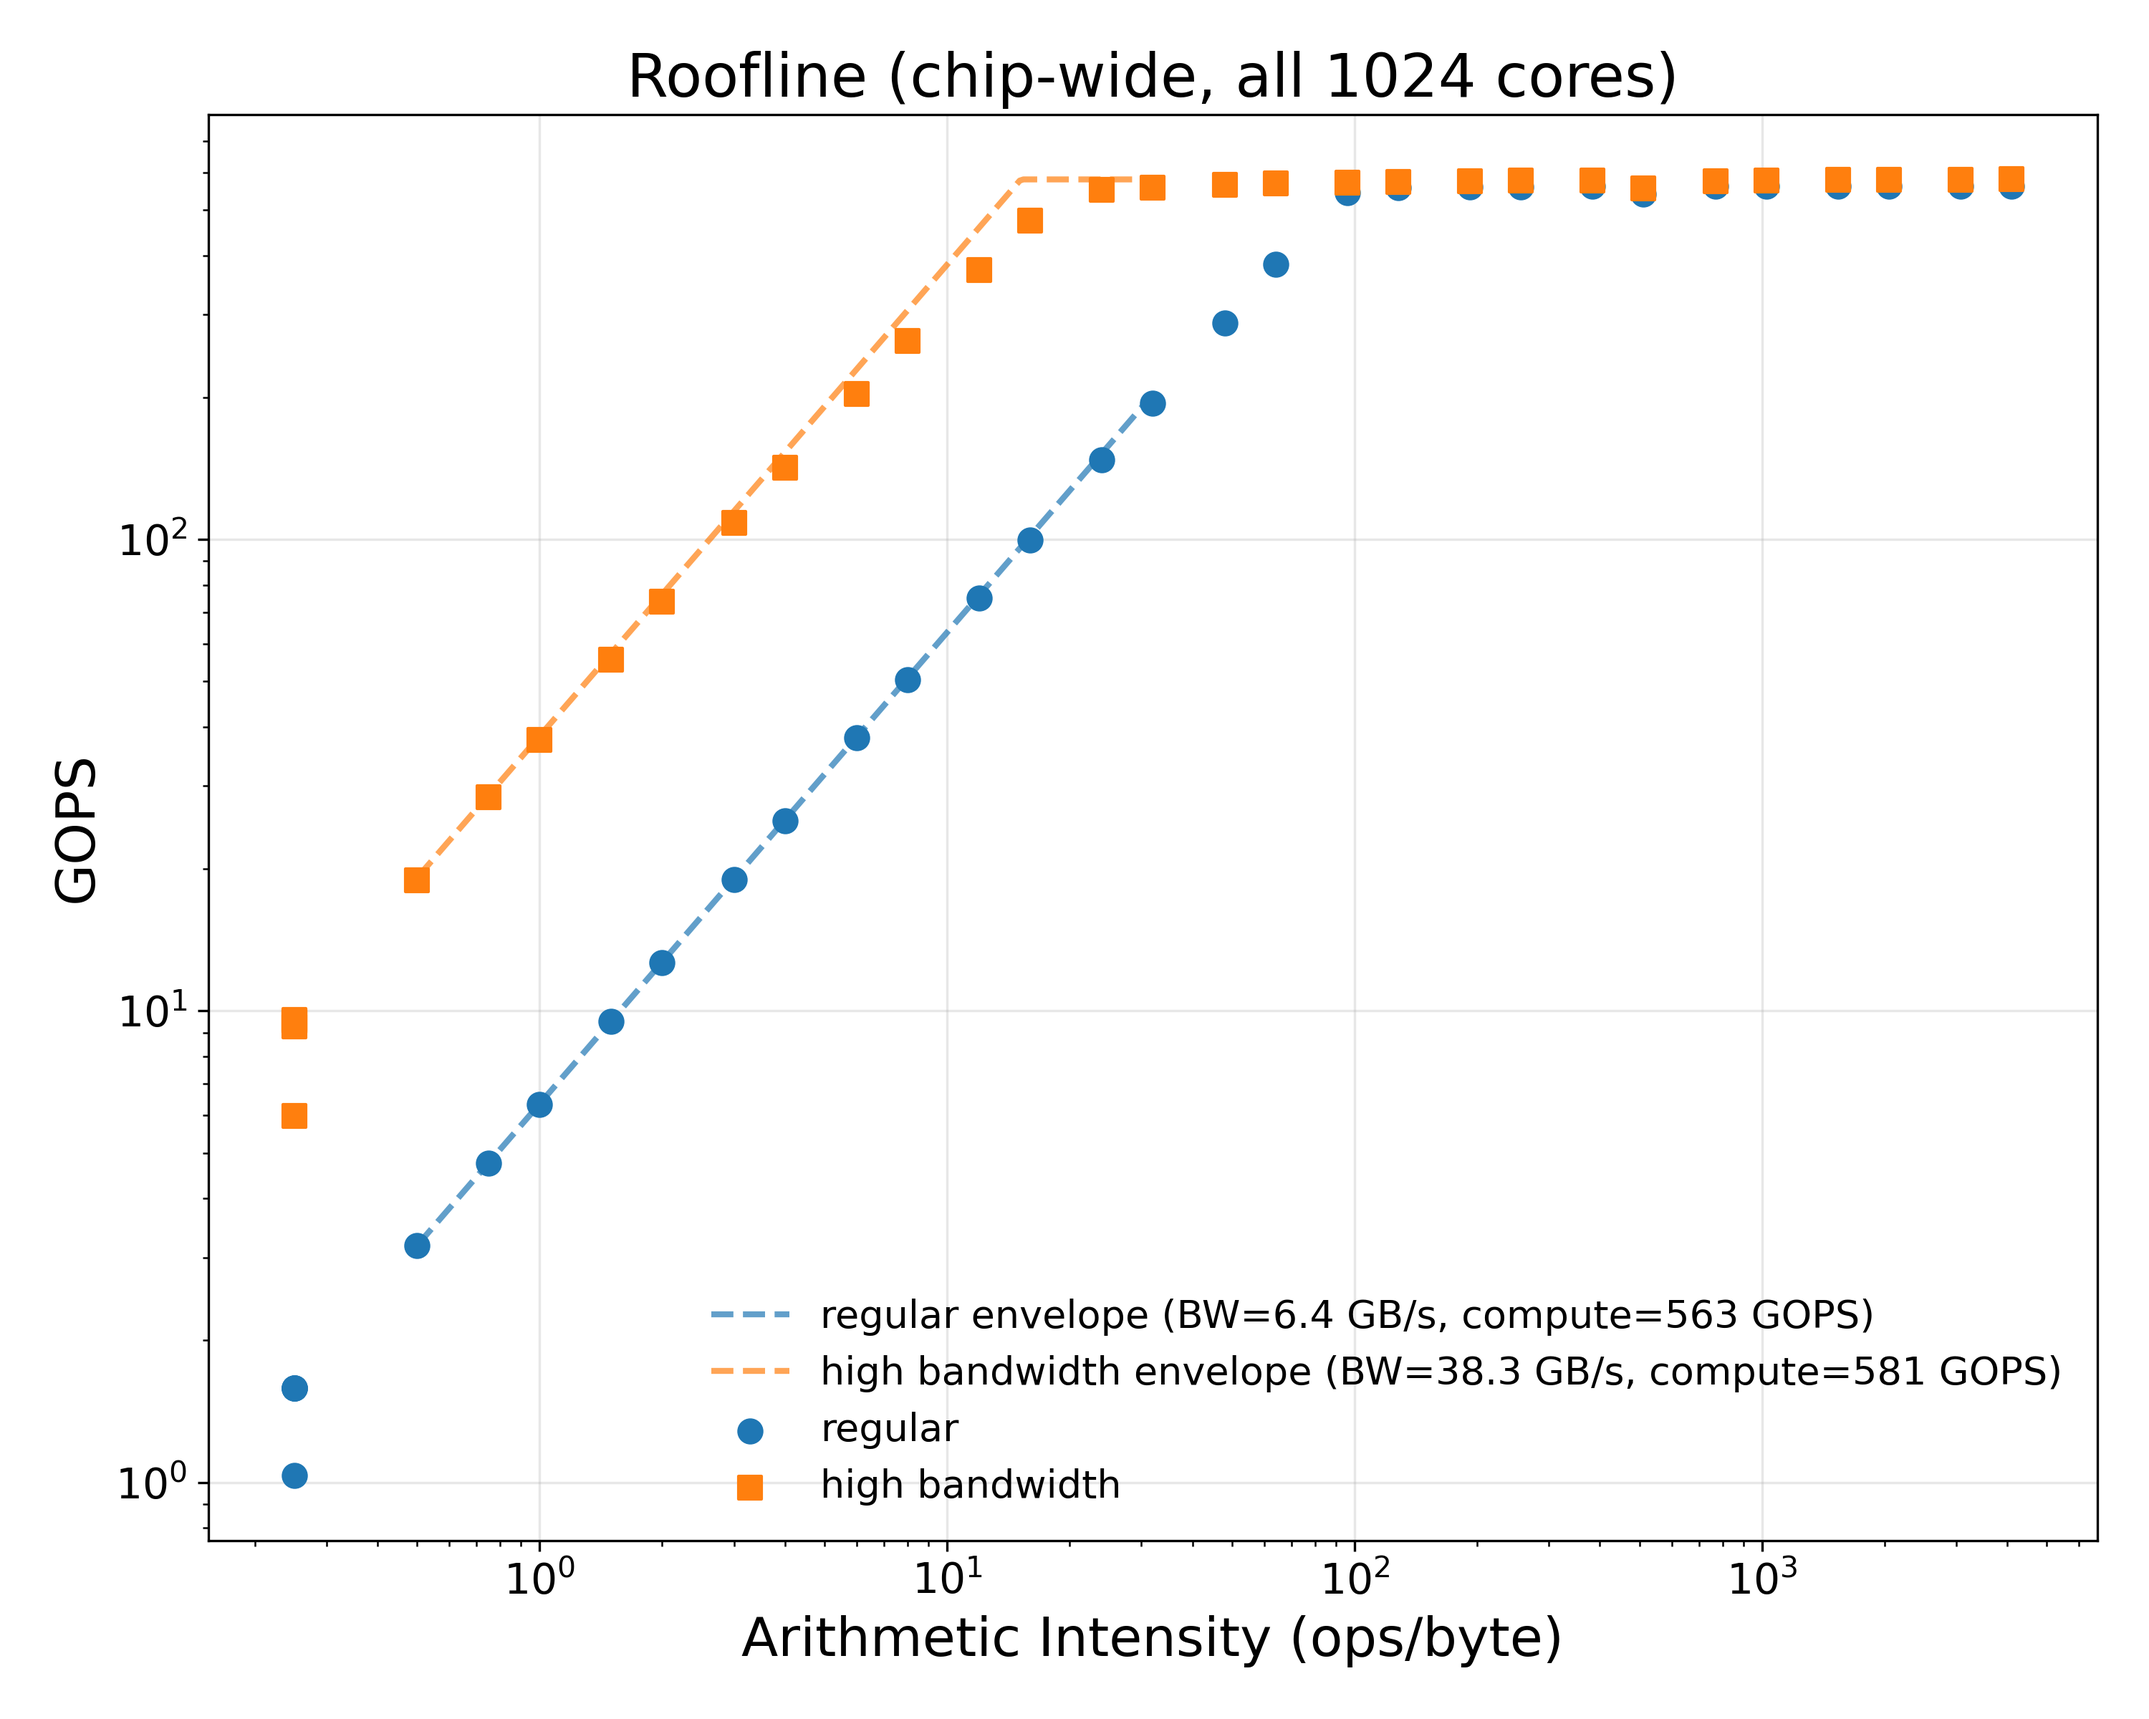
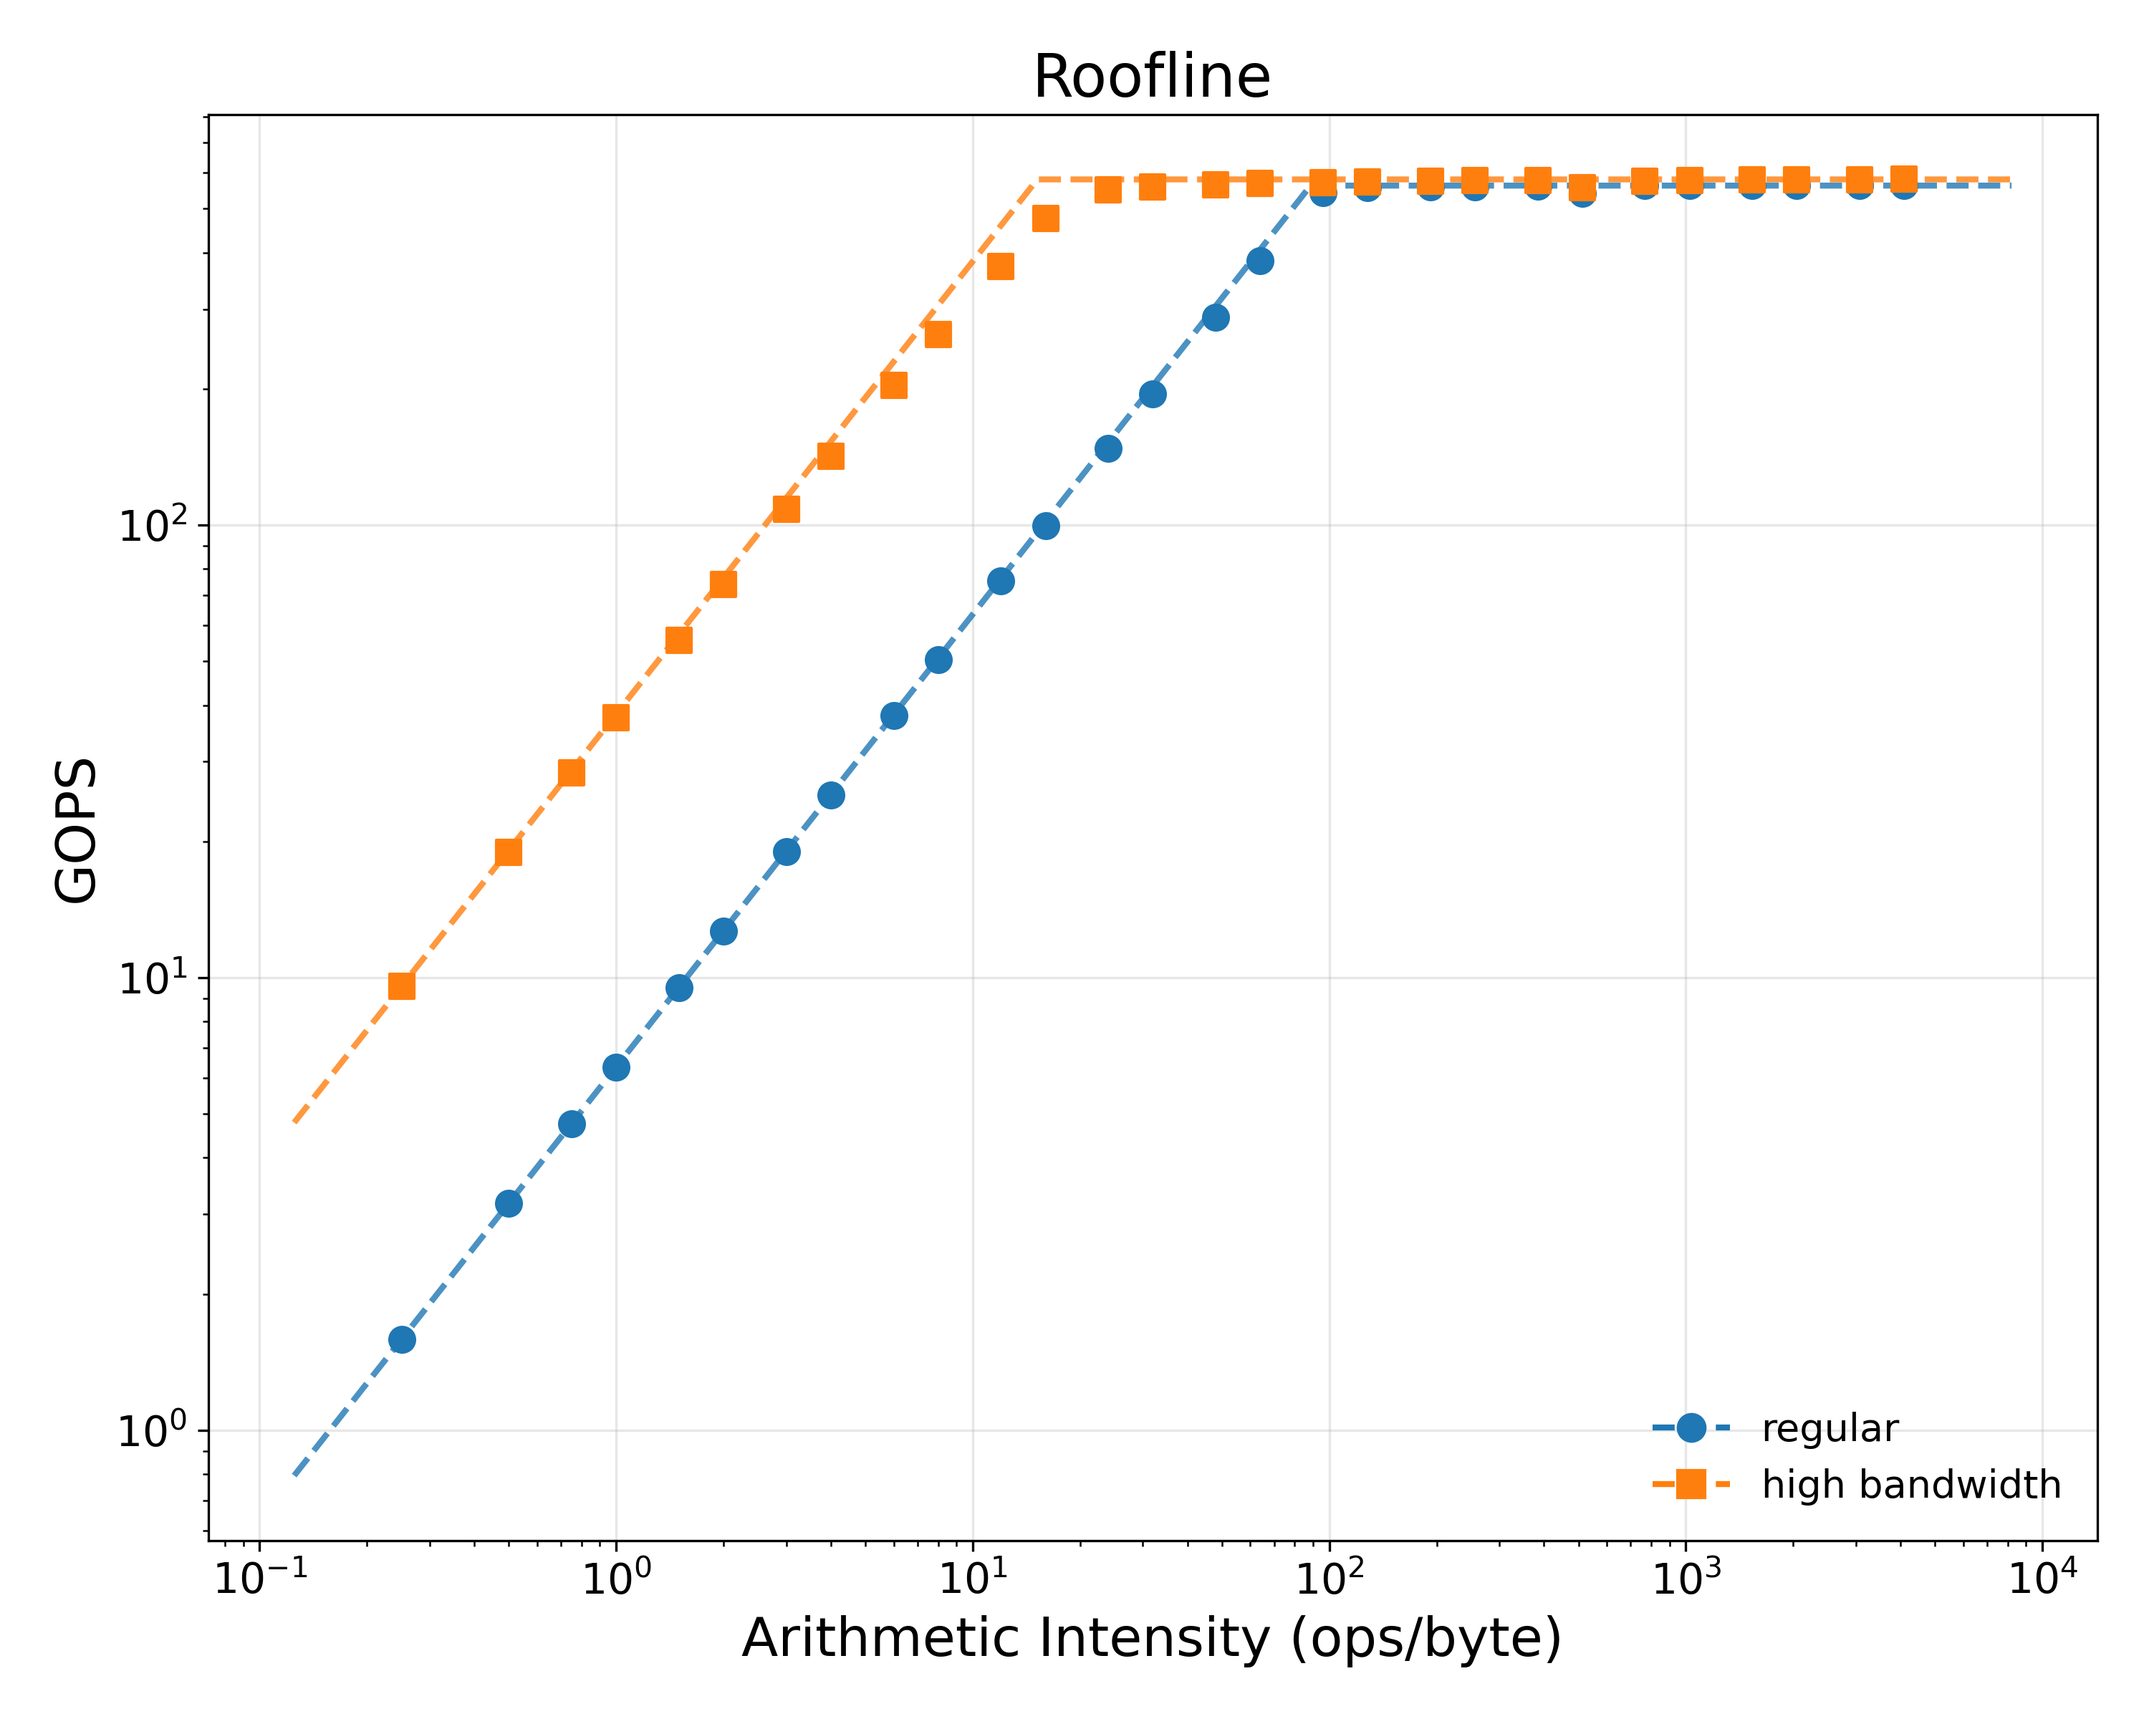
roofline: clean title, single legend entry per regime, full envelope

diff --git a/plot.py b/plot.py
@@ -421,51 +421,77 @@ def plot_vvadd():
 def plot_roofline():
     """Chip-wide roofline with regular + high-bandwidth scatter points and
     BW/compute envelopes.  Slow CSV's bw/gops are already ×32-projected per
-    pod (run_experiments.sh); we apply the ×8 chip-wide multiplier here."""
+    pod (run_experiments.sh); we apply the ×8 chip-wide multiplier here.
+
+    For each AI value we keep the row with max achieved GOPS, which drops
+    the UNROLL=1/4/8 sweep points at ops=1 that fall below the envelope.
+    """
+    import numpy as np
+    from matplotlib.lines import Line2D
+
     fast = load_roofline(slow=False)
     slow = load_roofline(slow=True)
 
+    def best_per_ai(rows):
+        by_ai = {}
+        for r in rows:
+            v = r.get("achieved_gops_s", "")
+            if not v:
+                continue
+            ai = float(r["arith_intensity_ops_per_byte"])
+            g  = float(v)
+            if ai not in by_ai or g > float(by_ai[ai]["achieved_gops_s"]):
+                by_ai[ai] = r
+        return list(by_ai.values())
+
     def points(rows):
+        rows = best_per_ai(rows)
         ai, bw, gops = [], [], []
         for r in rows:
-            a = float(r["arith_intensity_ops_per_byte"])
             b = bw_chipwide(r)
             g = gops_chipwide(r)
             if b is None or g is None:
                 continue
-            ai.append(a); bw.append(b); gops.append(g)
-        return ai, bw, gops
+            ai.append(float(r["arith_intensity_ops_per_byte"])); bw.append(b); gops.append(g)
+        # Sort by AI for clean envelope plotting.
+        order = sorted(range(len(ai)), key=lambda i: ai[i])
+        return ([ai[i] for i in order], [bw[i] for i in order], [gops[i] for i in order])
 
     ai_f, bw_f, gops_f = points(fast)
     ai_s, bw_s, gops_s = points(slow)
 
-    # Envelopes:  GOps = min(bw_peak * AI, compute_peak)
     bw_peak_reg = max(bw_f)
     bw_peak_hib = max(bw_s)
     cmp_peak_reg = max(gops_f)
     cmp_peak_hib = max(gops_s)
 
-    import numpy as np
-    ai_grid = np.logspace(-1, 5, 200, base=2)
+    # AI grid spans the full range of observed points (and a bit beyond) so
+    # both envelopes cover their entire BW-bound region and compute plateau.
+    ai_lo = min(ai_f + ai_s) / 2
+    ai_hi = max(ai_f + ai_s) * 2
+    ai_grid = np.logspace(np.log10(ai_lo), np.log10(ai_hi), 500)
     env_reg = np.minimum(bw_peak_reg * ai_grid, cmp_peak_reg)
     env_hib = np.minimum(bw_peak_hib * ai_grid, cmp_peak_hib)
 
     for size, suffix in ((SIZE_DEFAULT, ""), (SIZE_WIDE, "_wide")):
         fig, ax = plt.subplots(figsize=size)
-        ax.plot(ai_grid, env_reg, "--", color=COLOR_REGULAR, alpha=0.7,
-                linewidth=2, label=f"regular envelope (BW={bw_peak_reg:.1f} GB/s, "
-                                   f"compute={cmp_peak_reg:.0f} GOPS)")
-        ax.plot(ai_grid, env_hib, "--", color=COLOR_HIBW, alpha=0.7,
-                linewidth=2, label=f"high bandwidth envelope (BW={bw_peak_hib:.1f} GB/s, "
-                                   f"compute={cmp_peak_hib:.0f} GOPS)")
-        ax.scatter(ai_f, gops_f, color=COLOR_REGULAR, s=60, zorder=5, label="regular")
-        ax.scatter(ai_s, gops_s, color=COLOR_HIBW,    s=60, marker="s", zorder=5,
-                   label="high bandwidth")
+        # Plot envelopes (no legend label) and scatter (carries legend label).
+        ax.plot(ai_grid, env_reg, "--", color=COLOR_REGULAR, alpha=0.8, linewidth=2)
+        ax.plot(ai_grid, env_hib, "--", color=COLOR_HIBW,    alpha=0.8, linewidth=2)
+        ax.scatter(ai_f, gops_f, color=COLOR_REGULAR, s=70, zorder=5)
+        ax.scatter(ai_s, gops_s, color=COLOR_HIBW,    s=70, marker="s", zorder=5)
+        # Combined legend: dashed line + marker per regime, single entry each.
+        handles = [
+            Line2D([0], [0], color=COLOR_REGULAR, linestyle="--", marker="o",
+                   markersize=9, linewidth=2, label="regular"),
+            Line2D([0], [0], color=COLOR_HIBW,    linestyle="--", marker="s",
+                   markersize=9, linewidth=2, label="high bandwidth"),
+        ]
         ax.set_xscale("log"); ax.set_yscale("log")
         ax.set_xlabel("Arithmetic Intensity (ops/byte)")
         ax.set_ylabel("GOPS")
-        ax.legend(loc="lower right", frameon=False)
-        ax.set_title("Roofline (chip-wide, all 1024 cores)")
+        ax.legend(handles=handles, loc="lower right", frameon=False)
+        ax.set_title("Roofline")
         save(fig, f"roofline{suffix}")
 
     return {
